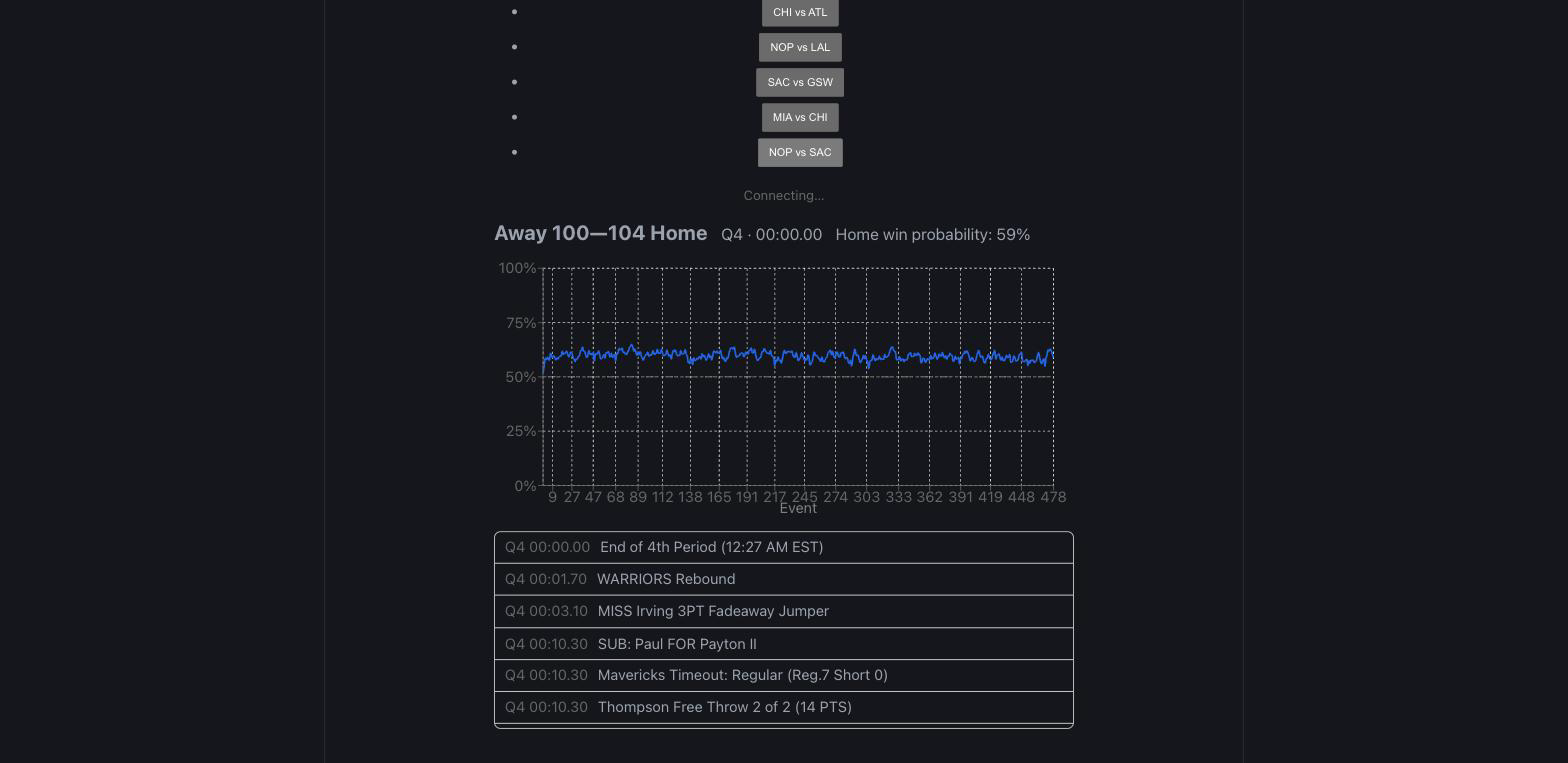
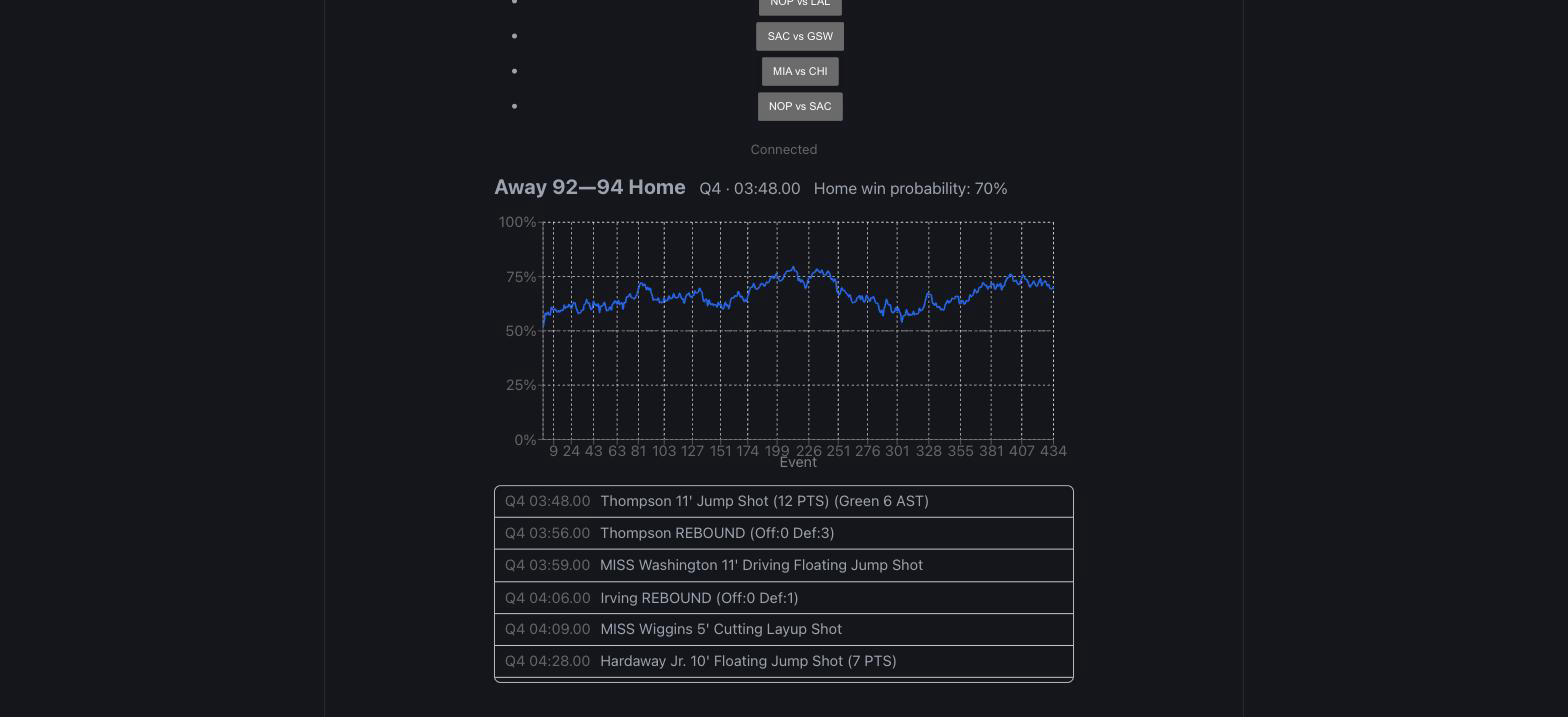
docs: replace end-of-game screenshots with mid-Q4 shots
The prior replay-chart/play-log screenshots were captured after the
game had already finished (Q4 00:00), which read as broken (game
over, but the UI still says 'Connecting...' and shows a flat
probability). Recaptured mid-replay in the 4th quarter with real time
on the clock, connection live.

Changed region(s): [[0.3125, 0.0, 0.6875, 0.9512]]

diff --git a/README.md b/README.md
@@ -4,8 +4,8 @@ A live NBA win-probability model — a PyTorch LSTM watches play-by-play events 
 
 [![CI](https://github.com/iggym21/NBAWinProb/actions/workflows/ci.yml/badge.svg)](https://github.com/iggym21/NBAWinProb/actions/workflows/ci.yml)
 
-![Win probability across a full game replay](docs/screenshots/replay-chart.png)
-*Win probability across a completed replay of GSW @ DAL — the chart, score/clock header, and play log are all driven by the same WebSocket event stream.*
+![Win probability chart mid-replay, Q4 with about 4 minutes left](docs/screenshots/replay-chart.png)
+*Mid-replay of GSW @ DAL — Q4, ~4 minutes left, GSW up 94-92. The chart, score/clock header, and play log are all driven by the same WebSocket event stream, live as the replay streams in.*
 
 ## What this is
 
@@ -101,11 +101,11 @@ CI (`.github/workflows/ci.yml`) runs both on every push to `main` and every pull
 
 ## Screenshots
 
-| Game picker | Full game replay | Play log |
+| Game picker | Mid-game replay | Play log |
 |---|---|---|
-| ![Game picker](docs/screenshots/game-picker.png) | ![Win probability chart after a completed full game replay](docs/screenshots/replay-chart.png) | ![Scrolling play-by-play log](docs/screenshots/play-log.png) |
+| ![Game picker](docs/screenshots/game-picker.png) | ![Win probability chart partway through a replay, Q4 with several minutes left](docs/screenshots/replay-chart.png) | ![Scrolling play-by-play log, Q4 in progress](docs/screenshots/play-log.png) |
 
-The replay and play-log screenshots were captured at the end of a full replay of GSW @ DAL (final: Q4 00:00, home win probability 59%) — the chart shows the win-probability line across the entire game and the play log is fully populated.
+The replay and play-log screenshots were both captured partway through a replay of GSW @ DAL, in the 4th quarter with real time still on the clock — not after the game had already finished — so the connection is live ("Connected") and the win-probability line is still being drawn in real time.
 
 ## Project Structure
 
